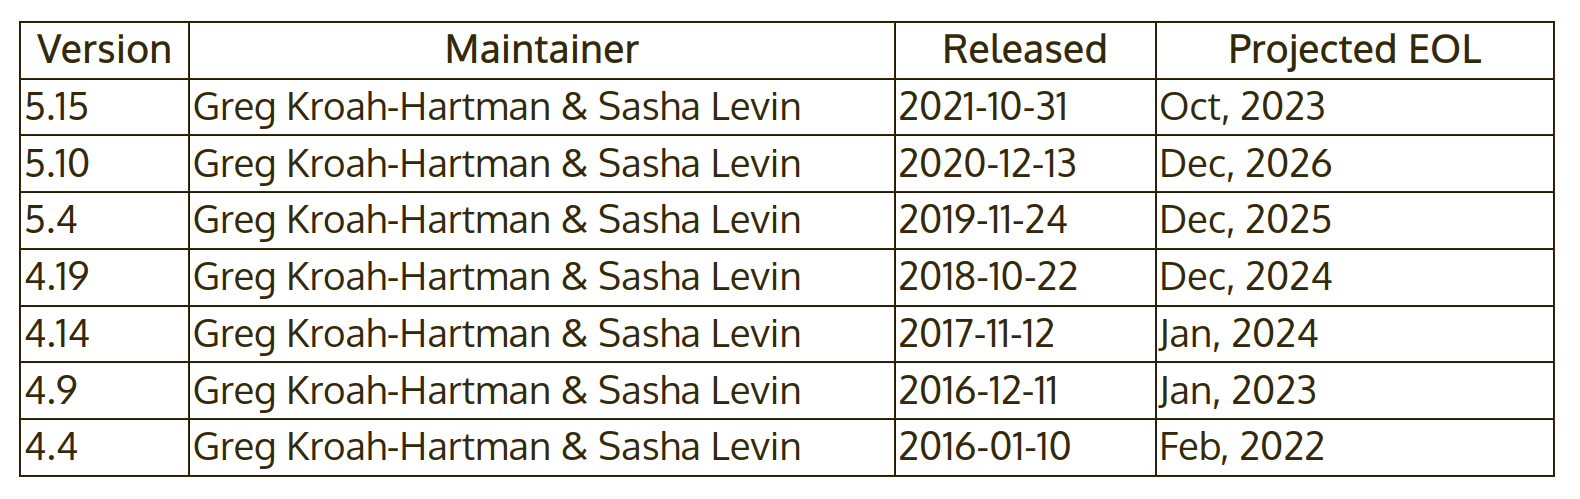
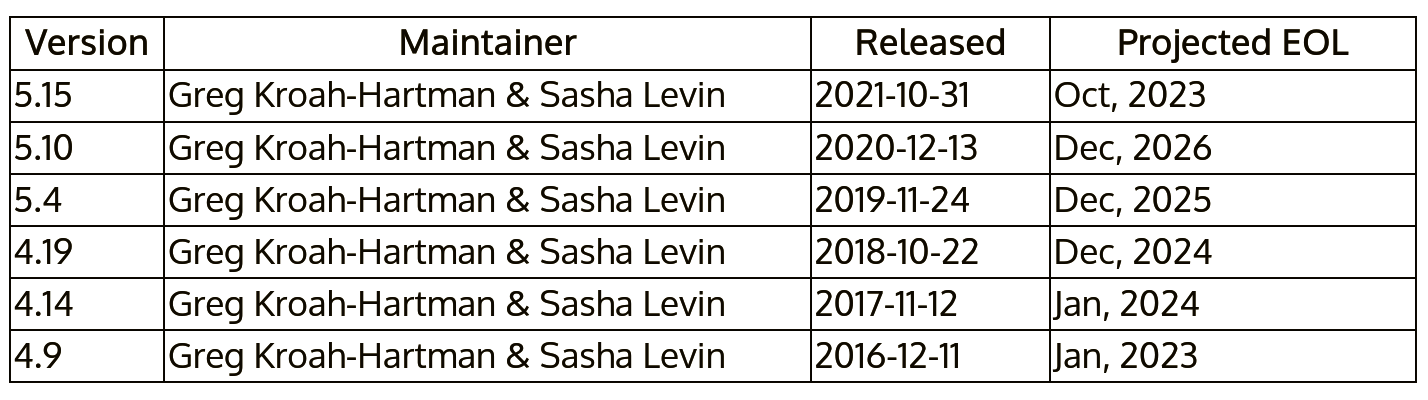
slides: sysdev: update slide with supported kernel releases

Changed region(s): [[0.0, 0.03, 1.0, 0.96]]

diff --git a/slides/sysdev-linux-intro-versioning/sysdev-linux-intro-versioning.tex b/slides/sysdev-linux-intro-versioning/sysdev-linux-intro-versioning.tex
@@ -44,7 +44,7 @@
   \includegraphics[width=\textwidth]{slides/sysdev-linux-intro-versioning/long-term-support-kernels.png}\\
   \column{0.4\textwidth}
   \scriptsize
-   Captured on \url{https://kernel.org} in Nov. 2021, following the
+   Captured on \url{https://kernel.org} in Oct. 2022, following the
    \href{https://www.kernel.org/category/releases.html}{\em Releases} link.
   \end{columns}
   \item Example at Google: starting from {\em Android O (2017)}, all new Android devices will
